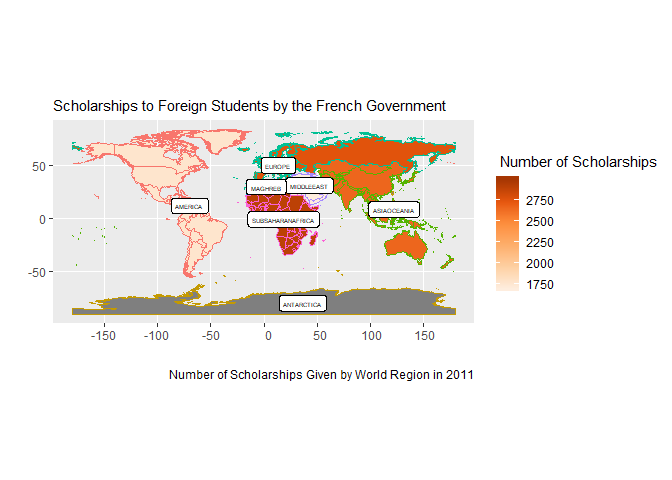
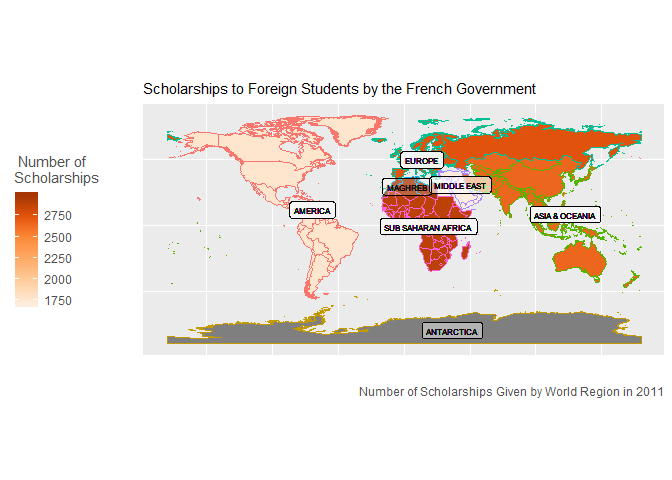
README update

diff --git a/FrenchScholarships.md b/FrenchScholarships.md
@@ -218,13 +218,13 @@ myRegions <- myRegions %>%
                (SUBREGION == 0 ~ "Antarctica_NA", 
                 SUBREGION %in% c(39,151, 154, 155) ~ "Europe_2755",
                 (SUBREGION  == 15 & NAME != "Egypt" & NAME !="Sudan") ~ "Maghreb_2997",
-                SUBREGION %in% c(30, 34, 35, 53, 54, 57, 61, 143) ~ "AsiaOceania_2662",
+                SUBREGION %in% c(30, 34, 35, 53, 54, 57, 61, 143) ~ "Asia & Oceania_2662",
                 SUBREGION %in% c(5, 13, 21, 29) ~ "America_1770",
                 (SUBREGION == 145 | NAME=="Iran (Islamic Republic of)"
-                 | NAME == "Egypt")  ~ "MiddleEast_1697", 
-                SUBREGION %in% c(11, 14, 17, 18) | NAME == "Sudan" ~ "SubSaharanAfrica_2906"
+                 | NAME == "Egypt")  ~ "Middle East_1697", 
+                SUBREGION %in% c(11, 14, 17, 18) | NAME == "Sudan" ~ "Sub Saharan Africa_2906"
                  )) %>%
-                separate(Regions_schol, c("Regions", "schol")) 
+                separate(Regions_schol, c("Regions", "schol"), sep="_") 
 ```
 
 Now, let's do a map.
@@ -238,7 +238,7 @@ myRegions_notRegrouped <- myRegions
 myRegions <- myRegions %>%
         group_by(Regions) %>%
         mutate(LON = mean(LON), LAT = mean(LAT),
-               LON = case_when(Regions == "AsiaOceania" ~ LON+50, TRUE  ~ LON),
+               LON = case_when(Regions == "Asia & Oceania" ~ LON+50, TRUE  ~ LON),
                LAT = case_when(Regions == "Antarctica" ~ LAT-50, TRUE ~ LAT))
 ```
 
@@ -252,14 +252,24 @@ names(myColors) <- levels(as.factor(myRegions$Regions))
 
 myMap <- ggplot(myRegions) + geom_sf(aes(fill=schol,color = Regions))+
         scale_fill_distiller(direction = 1, 
-                             name =" Number of Scholarships", palette="Oranges")+
+                             name =" Number of\nScholarships", palette="Oranges")+
         labs(caption="Number of Scholarships Given by World Region in 2011", 
              subtitle="Scholarships to Foreign Students by the French Government")+
         geom_label(aes(x=LON, y=LAT), 
                    color="black", 
-                   label=toupper(myRegions$Regions), size=1.7)+
+                   label=toupper(myRegions$Regions), size=2, alpha=.05)+
         xlab("") + ylab("") +
-        guides(color = FALSE)
+        guides(color = FALSE) +
+        theme(plot.title = element_text(color = "gray32", face = "bold"),
+              plot.caption = element_text(color = "gray32"),
+              legend.text=element_text(color = "gray32"),
+              legend.title = element_text(color = "gray32"),
+              legend.position = 'left',
+              legend.direction = "vertical",
+              axis.ticks.x = element_blank(),
+              axis.text.x = element_blank(),
+              axis.ticks.y = element_blank(),
+              axis.text.y = element_blank())
 
 print(myMap)
 ```
@@ -274,9 +284,19 @@ myMap2 <- ggplot(myRegions) + geom_sf(aes(fill=Regions,color = Regions))+
         labs(caption="Number of Scholarships Given by World Region in 2011", 
              title="World Repartition of French Government Scholarships")+
         geom_label(aes(x=LON, y=LAT), 
-                   color="black", fill = "seashell", 
-                   label=myRegions$schol, size=1.8)+
-        xlab("") + ylab("")
+                   color="black", fill = "seashell", alpha=.05,
+                   label=myRegions$schol, size=2)+
+        xlab("") + ylab("")+
+        theme(plot.title = element_text(color="black", face = "bold"),
+              legend.direction = 'horizontal', 
+              legend.position = 'bottom',
+              legend.text.align = 0,
+              legend.text = element_text(size = 7.5),
+              legend.title=element_blank(),
+              axis.ticks.x = element_blank(),
+              axis.ticks.y = element_blank(),
+              axis.text.x = element_blank(),
+              axis.text.y = element_blank())
 
 print(myMap2)
 ```

diff --git a/README.md b/README.md
@@ -1,8 +1,7 @@
-This is a practice exercise made around a course on investigating data in R for journalists with the Knight Foundation : I chose a dataset on the web and ran an analysis with the objective of producing maps.
-
 [The maps produced are here](https://raw.githubusercontent.com/Woodsandfields/R_FrenchScholarships/master/myMap__choropleth.png) and [here.](https://raw.githubusercontent.com/Woodsandfields/R_FrenchScholarships/master/myMap__classic.png) 
 
 
 [The final document is R_FrenchScholarships.md in this repo](https://github.com/Woodsandfields/R_FrenchScholarships/blob/master/FrenchScholarships.md
 ). I am still working on it to add to it and improve some aspects, especially try different map solutions. However, the original dataset I started with is quite limited and doesn't allow for meaningful analysis.
 
+NB: This is originally a practice exercise made around a course on investigating data in R for journalists with the Knight Foundation: I chose a dataset on the web and ran an analysis with the objective of producing maps.
